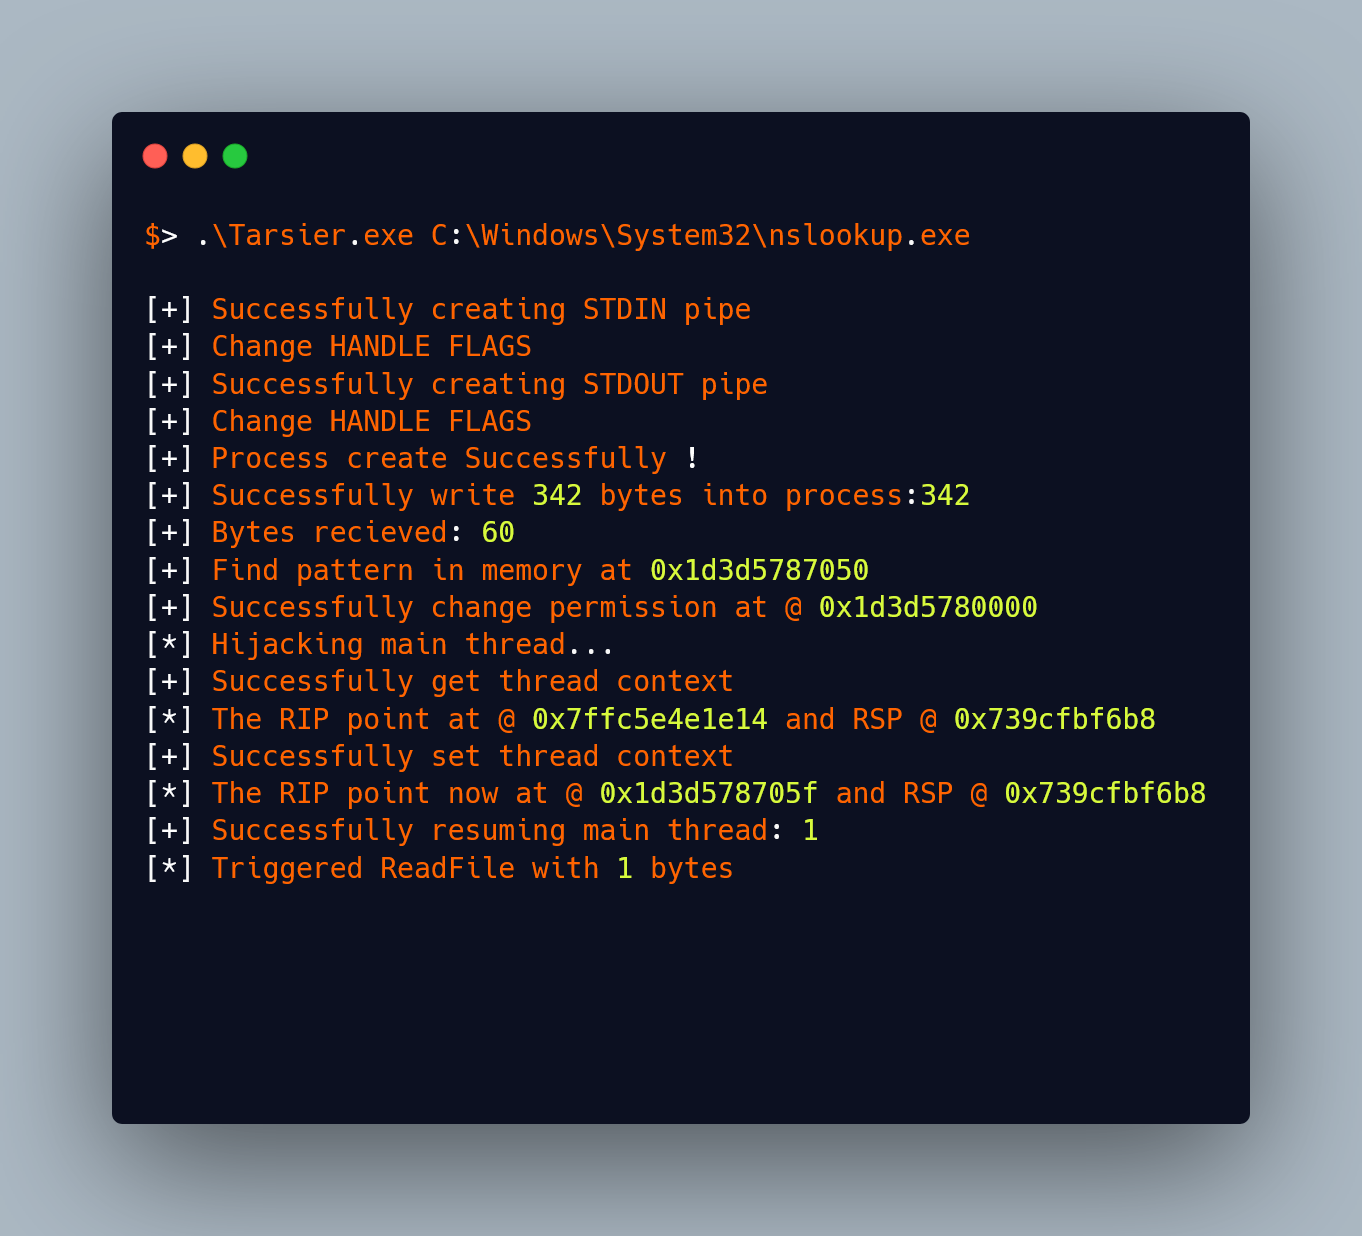
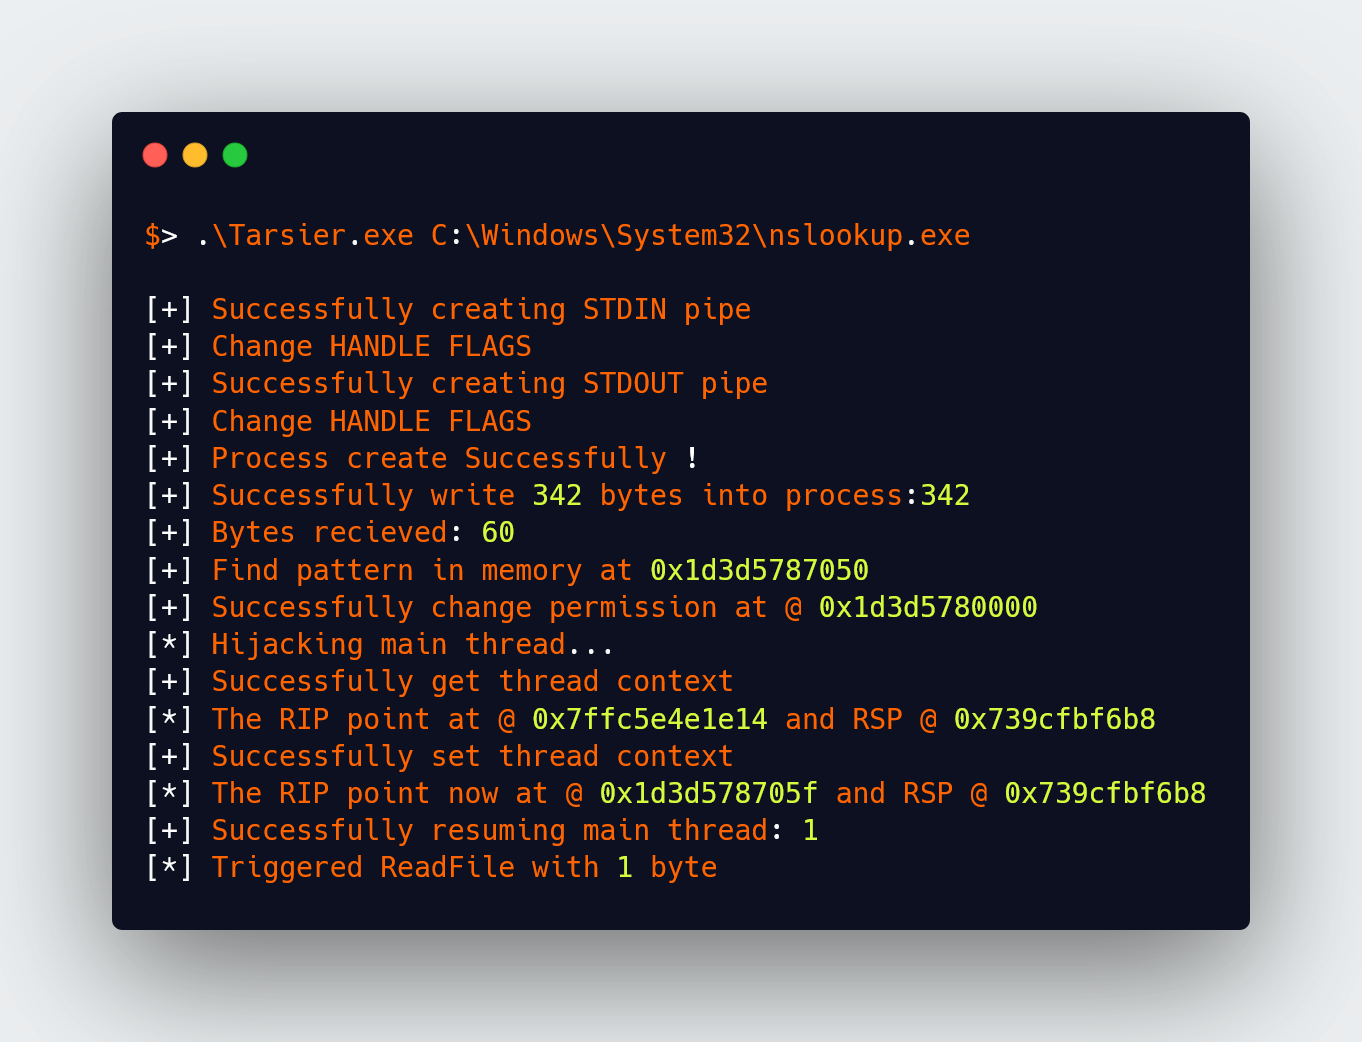
Correcting image render README.md #3

diff --git a/README.md b/README.md
@@ -46,7 +46,11 @@ $ > ./tarsier.exe c:\Windows\System32\nslookup.exe
 </p>
 
 
-![tarsier_log](/img/tarsier_log.png "tarsier_log")
+<p align="center">
+  <img src="/img/tarsier_log.png" alt="tarsier log" width="300">
+  <br>
+  <em>Run tarsier.exe targeting nslookup.exe</em>
+</p>
 
 ### Remarks
 
